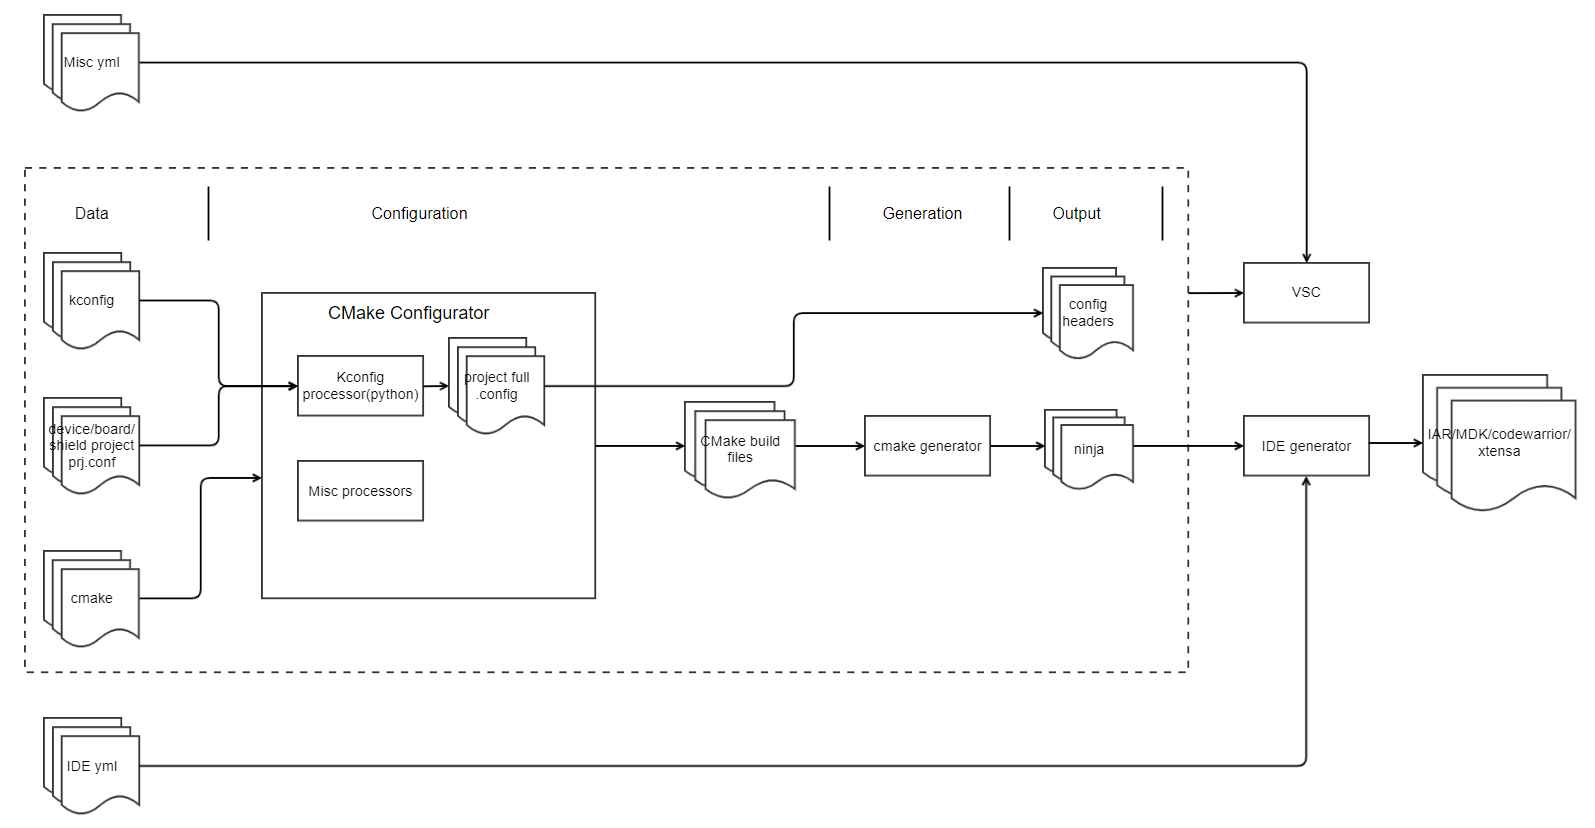
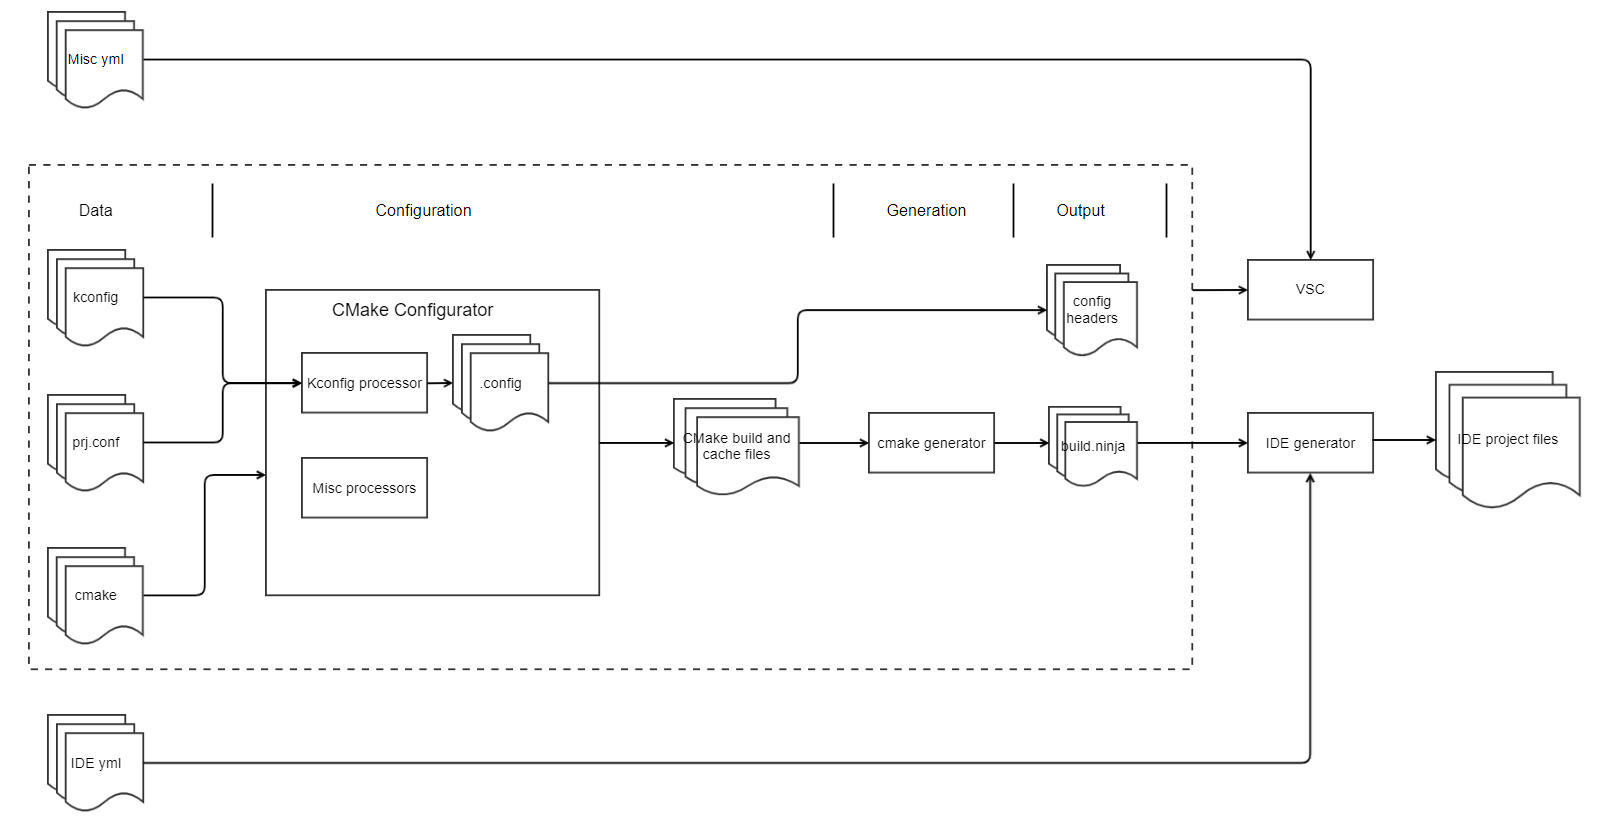
SDKGEN-3177 Update build system Overview Architecture to give better illustration for architecture graph.

diff --git a/develop/build_system/Overview.md b/develop/build_system/Overview.md
@@ -12,9 +12,22 @@ MCUXpresso SDK build and configuration system is based on [CMake](https://cmake.
 
 ## Architecture
 
-In the overall system, [CMake](https://cmake.org/) is used to manage the whole build process. [Kconfig](https://www.kernel.org/doc/html/next/kbuild/kconfig-language.html) is used to do component selection with dependency resolve, component configuration with feature enable, disable and customization. Misc yaml files are introduced to record debug settings and display data. Misc generators can be inserted into CMake configurator to extend features like standalone project generation. 
-
 Here is the system architecture:
 
 ![](./_doc/build_system_arch.PNG)
+
+[CMake](https://cmake.org/) is used to manage the whole build process. [Kconfig](https://www.kernel.org/doc/html/next/kbuild/kconfig-language.html) is used to do component selection with dependency resolve, component configuration with feature enable, disable and customization. Misc generators can be inserted into CMake configurator to extend features like standalone project generation.
+
+The input files are
+
+- Kconfig files define device/board/shield hardware information, component and example dependency and configuration. 
+- [prj.conf](./Configuration_System.md#prj-conf) files provide pre set value for Kconfig symbols. 
+- cmake files define the component and example contents.
+- [IDE.yml](./IDE_Project.md#ide-yml) files provide download and debug settings for board examples
+- Misc yml files provide miscellaneous information for device/board/shield/components/examples mainly used by tools like MCUXpresso VSCode plugin to display SDK contents.
+
+The outputs are 
+
+- Config header files contain configuration macros for device/board/shield/components/examples.
+- build.ninja file contains the final compile and link information for example. It is the input for [Ninja](https://ninja-build.org/) to build the example. IDE generator will also take it as input to generate IDE project files like .ewp file for IAR and .uvprojx for MDK. You can refer [IDE Project Generation](./IDE_Project.md) for more details about this feature.
 
